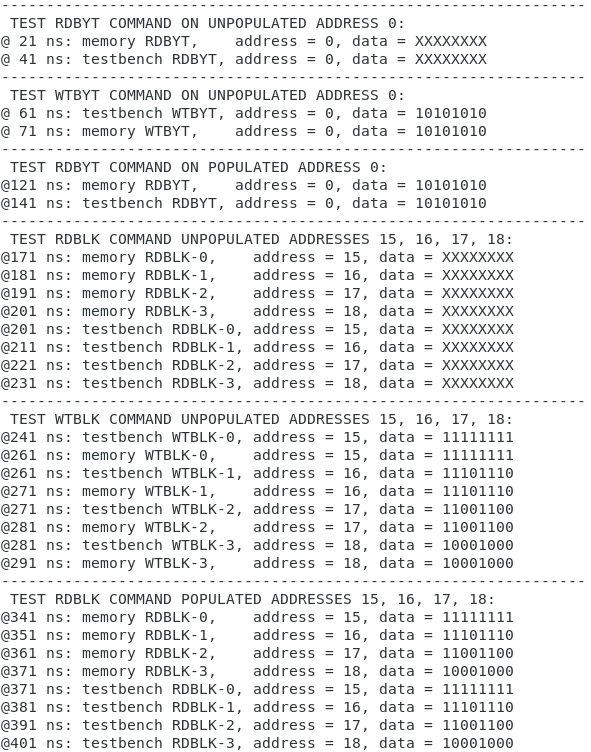
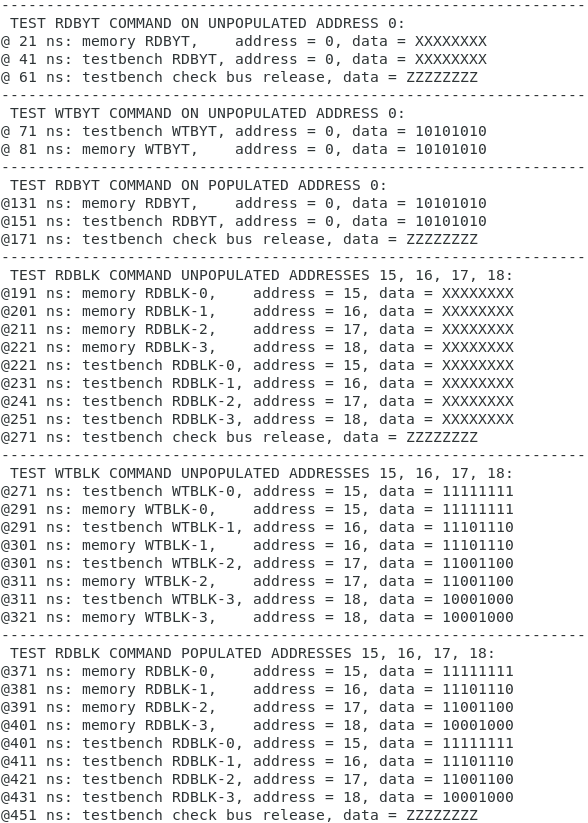
fixed small errors

Changed region(s): [[0.0, 0.0, 0.8878, 1.0]]

diff --git a/Assignment 2/Assignment 2 Q1/testbench.h b/Assignment 2/Assignment 2 Q1/testbench.h
@@ -40,6 +40,10 @@ SC_MODULE(testbench) {
 			<< ", data = " << data_s << endl;
 			new_comm.write(false);
 			wait();
+			wait();
+			data_s = data.read();
+			cout << "@" << setw(6) << sc_time_stamp() << ": testbench check bus release"
+			<< ", data = " << data_s << endl;
 			
 			cout << "-----------------------------------------------------------------" << endl;
 			cout << " TEST WTBYT COMMAND ON UNPOPULATED ADDRESS 0:" << endl;
@@ -70,6 +74,10 @@ SC_MODULE(testbench) {
 			<< ", data = " << data_s << endl;
 			new_comm.write(false);
 			wait();
+			wait();
+			data_s = data.read();
+			cout << "@" << setw(6) << sc_time_stamp() << ": testbench check bus release"
+			<< ", data = " << data_s << endl;
 			
 			cout << "-----------------------------------------------------------------" << endl;
 			cout << " TEST RDBLK COMMAND UNPOPULATED ADDRESSES 15, 16, 17, 18:" << endl;
@@ -100,6 +108,10 @@ SC_MODULE(testbench) {
 			new_comm.write(false);
 			wait();
 			}
+			wait();
+			data_s = data.read();
+			cout << "@" << setw(6) << sc_time_stamp() << ": testbench check bus release"
+			<< ", data = " << data_s << endl;
 			
 			cout << "-----------------------------------------------------------------" << endl;
 			cout << " TEST WTBLK COMMAND UNPOPULATED ADDRESSES 15, 16, 17, 18:" << endl;
@@ -153,9 +165,13 @@ SC_MODULE(testbench) {
 			}
 			new_comm.write(false);
 			wait();
-			
-			data.write(Z);
 			wait();
+			data_s = data.read();
+			cout << "@" << setw(6) << sc_time_stamp() << ": testbench check bus release"
+			<< ", data = " << data_s << endl;
+			
+			wait();
+			data.write(Z);
 		}
 	}
 	

diff --git a/Assignment 2/Assignment 2 Q1/structure.cpp b/Assignment 2/Assignment 2 Q1/structure.cpp
@@ -43,7 +43,7 @@ int sc_main(int argc, char* argv[])
     sc_trace(TF, new_comm, "new_comm");
     sc_trace(TF, complete, "complete");
 
-    sc_start(410, SC_NS);
+    sc_start(460, SC_NS);
     sc_close_vcd_trace_file(TF);
 
     return 0;
